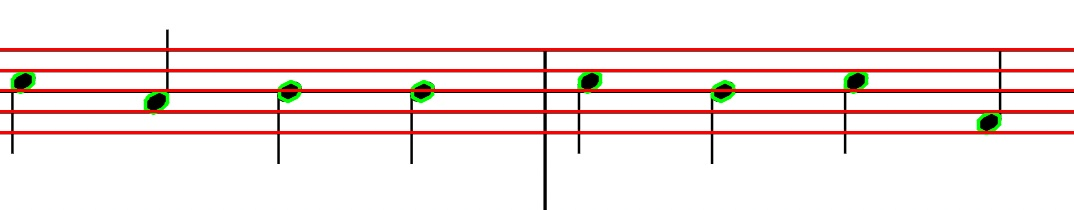
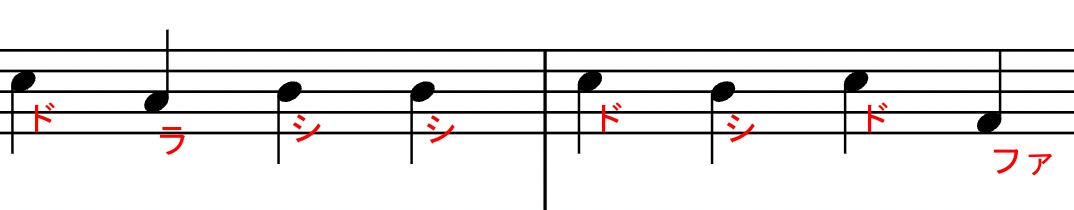
🎨[Update] README.

Changed region(s): [[0.0, 0.3143, 1.0, 0.7429], [0.0, 0.2286, 1.0, 0.2571], [0.9218, 0.6857, 0.9832, 0.8286]]

diff --git a/analysis.py b/analysis.py
@@ -20,7 +20,7 @@ class Execute:
         FileHandler.disp_image(WINDOW_NAME_OUTPUT, result_img)
 
         ### 保存
-        FileHandler.save_to_image(env["output_img_path"], input_img)
+        FileHandler.save_to_image(env["output_img_path"], result_img)
 
         ### 停止
         FileHandler.disp_halt()

diff --git a/README.md b/README.md
@@ -5,13 +5,24 @@
 [![OpenCV](https://img.shields.io/badge/OpenCV-4.7.0-red.svg)](https://opencv.org/opencv-4-7-0/)
 [![Code style: black](https://img.shields.io/badge/code%20style-black-000000.svg)](https://github.com/psf/black)
 
+## 🌱 Overview
+
 Analyze and display the musical scale from the input music score image.
+
+### Scheme:
 
 - 五線譜を Hough 変換と角度限定で検出
 - 音符を膨張収縮処理で検出
 - 音符の重心座標と五線譜の位置関係で音階を推定
 
-### Usage
+### Demo:
+
+- 入力画像
+  ![input_img](https://user-images.githubusercontent.com/63791288/218268392-2c745d44-8ef1-4241-9868-88f6f60ddad2.png)
+- 出力画像
+  ![result_img](https://user-images.githubusercontent.com/63791288/218268352-b17cfc7e-a5ae-4426-b431-d71a156d6d18.jpg)
+
+## 🚀 Usage
 
 ```sh
 ### [Only after clone] Configure your local environment.
